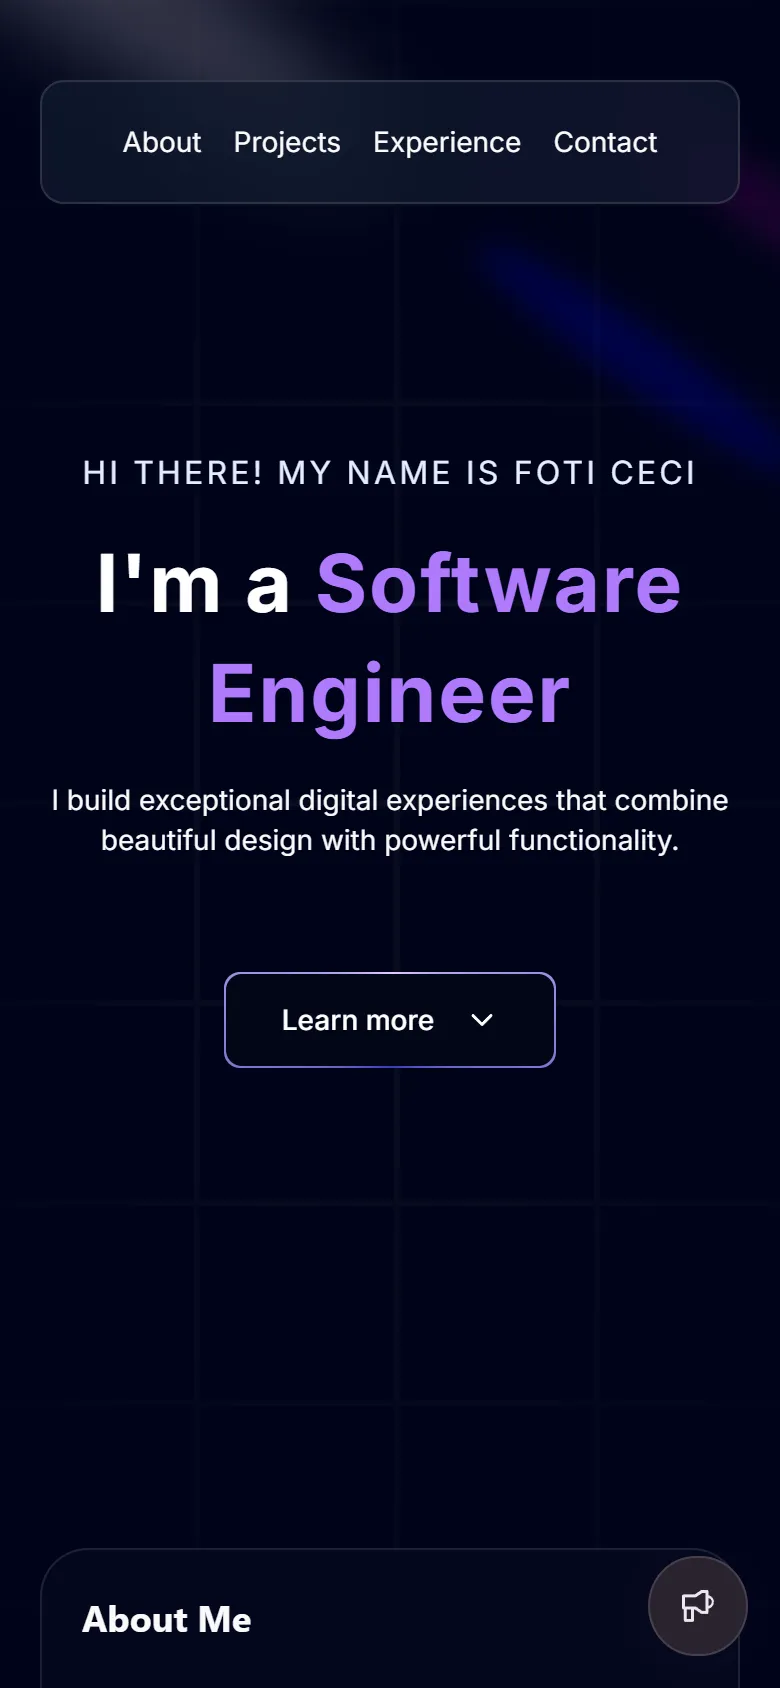
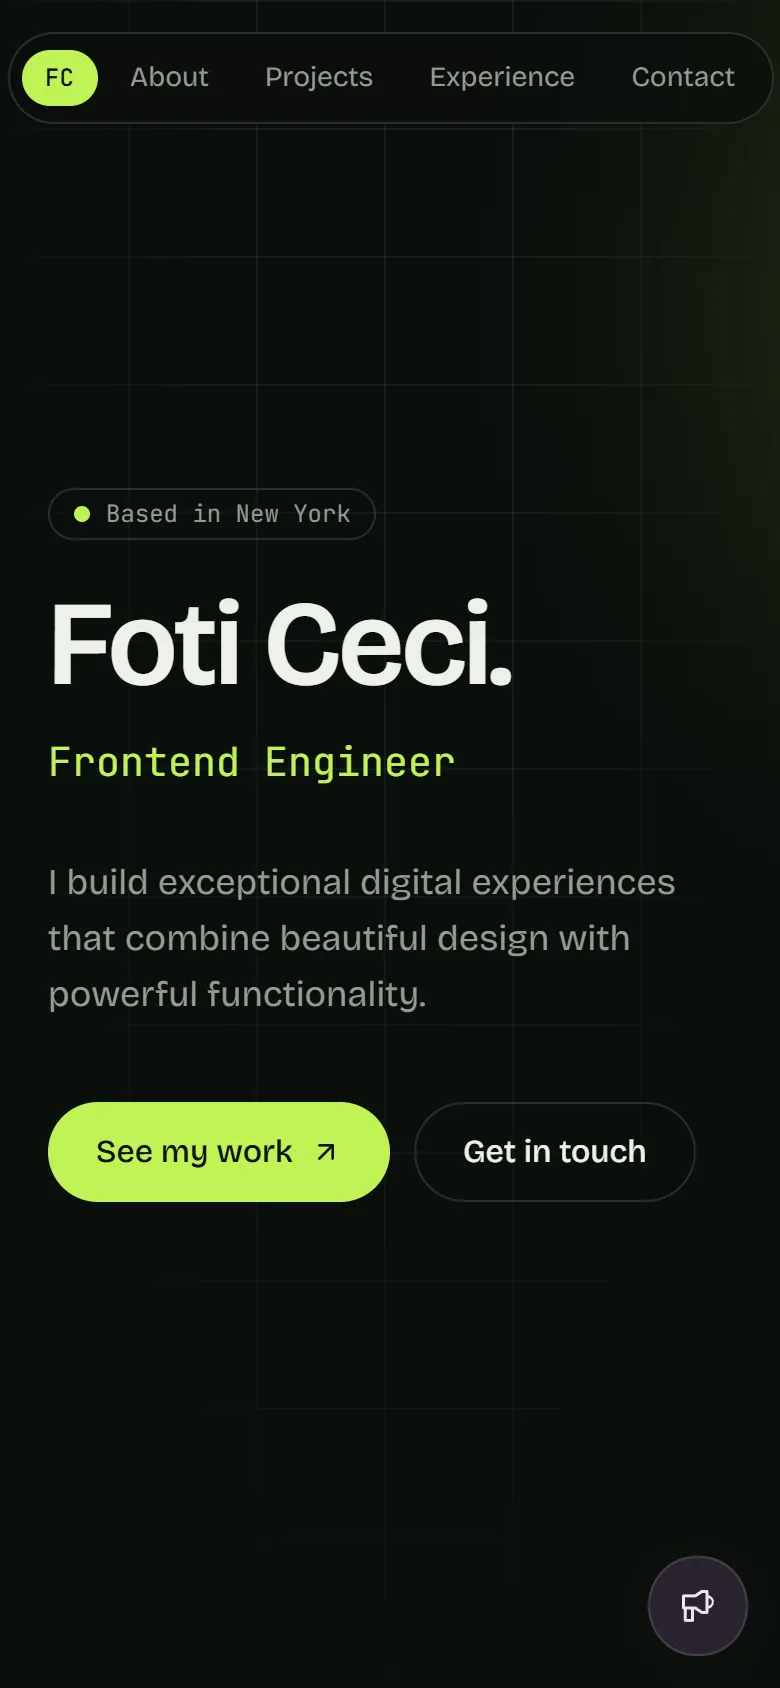
update portfolio project

diff --git a/src/content/site.ts b/src/content/site.ts
@@ -85,9 +85,9 @@ export const WORK = {
       url: "https://foticeci.com",
       host: "foticeci.com",
       image: portfolioImg,
-      alt: "Dark portfolio website for software engineer Foti Ceci",
+      alt: "Foti Ceci's portfolio: a dark page with his name, the title Frontend Engineer in green, and a See my work button",
       mobileImage: portfolioMobileImg,
-      mobileAlt: "The portfolio on a phone: a dark page introducing Foti Ceci as a software engineer",
+      mobileAlt: "The portfolio on a phone: Foti Ceci's name, the title Frontend Engineer and a green See my work button",
       platform: "Custom build",
       features: [
         "Project showcase",
